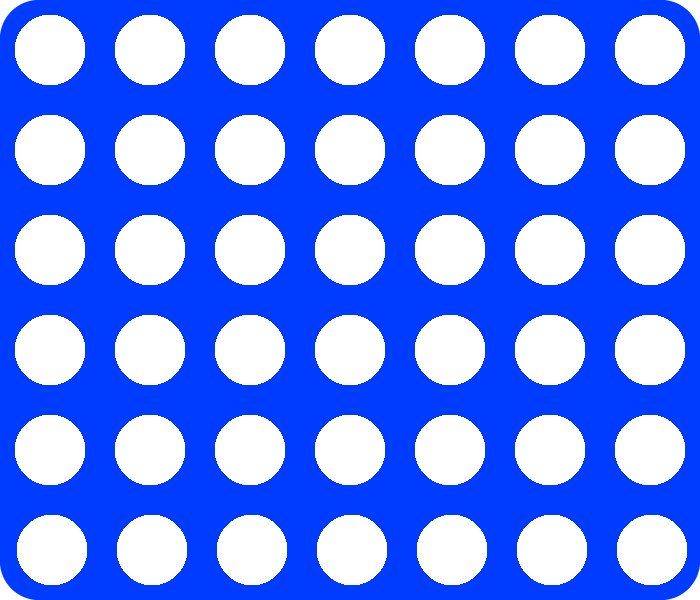
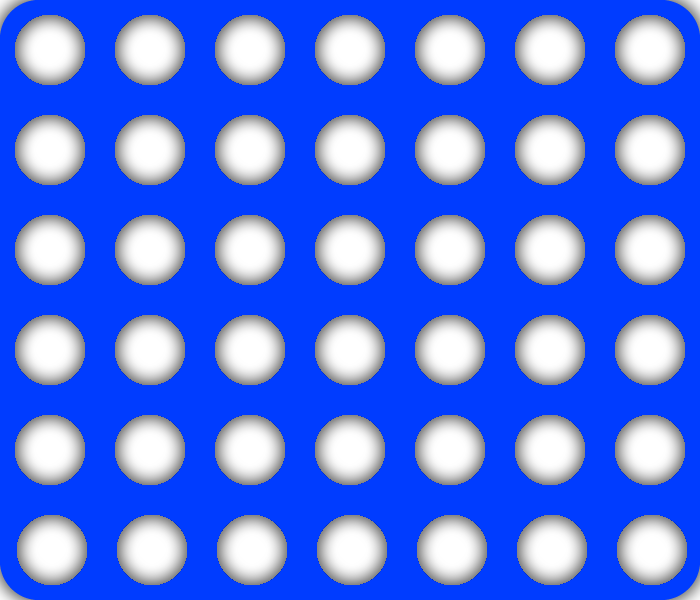
fixed rare bugs, added animations, gradients and different ending messages

diff --git a/public/index.html b/public/index.html
@@ -53,7 +53,8 @@
             var winColor;
             var width = 1920;
             var height = 1080;
-            var game;
+            var game = [];
+            var newDot;
             var color;
             var clientData;
             var camera = {x: 0, y: 0};
@@ -76,44 +77,86 @@
                 ctx.save();
                 ctx.translate(-camera.x + canvas.width / 2, -camera.y + canvas.height / 2);
 
-                if(game != null)
+                if(game.length !== 0)
                 {            
                     if(win)
                     {
                         ctx.restore();
-                        let winMessage;
                         
-                        if(game.color === winColor)
+                        if(winColor === "red" || winColor === "yellow")
                         {
-                            winMessage = "won";
+                            let winMessage;
+
+                            if(color === winColor)
+                            {
+                                winMessage = "won";
+                            }
+
+                            else
+                            {
+                                winMessage = "lost";
+                            }
+
+                            displayMessage("You have " + winMessage + ". Refresh to play with another user.");
                         }
 
                         else
                         {
-                            winMessage = "lost";
+                            displayMessage("Tie game. Refresh to play with another user.");
                         }
-                        displayMessage("You have " + winMessage + ". Refresh to play with another user.");
+                        
                         return;
                     }
 
                     else
                     {
-                        for(var n = 0; n < game.game.dots.length; n++)
+                        for(var n = 0; n < game.length; n++)
                         {
-                            let dot = game.game.dots[n];
+                            let dot = game[n].dot;
+                            dot.rowSpeed += dot.rowAcceleration;
+                            dot.rowPosition -= dot.rowSpeed;
+
+                            if(dot.rowPosition < dot.row)
+                            {
+                                dot.rowPosition = dot.row;
+                                dot.rowSpeed *= -0.3;
+                                dot.rowAcceleration *= 1.5;
+
+                                if(dot.rowSpeed < 0.001)
+                                {
+                                    dot.rowPosition = dot.row;
+                                    dot.rowSpeed = 0;
+                                    dot.rowAcceleration = 0;
+                                }
+
+                                if(dot.firstBounce)
+                                {
+                                    playSound(drop);
+                                }
+                                
+                                dot.firstBounce = false;
+                            }
+
+                            let x = 100 * (dot.column - 3);
+                            let y = 100 * ((5 - dot.rowPosition) - 2.5);
+                            console.log(x, y, dot.column, dot.rowPosition);
+                            let grd = ctx.createRadialGradient(x, y, 0, x, y, 40);
 
                             if(dot.color === "red")
                             {
-                                ctx.fillStyle = "#ff0000";
+                                grd.addColorStop(0, "#ff0000");
+                                grd.addColorStop(1, "#900000");
                             }
 
                             else if(dot.color === "yellow")
                             {
-                                ctx.fillStyle = "#ffff00";
+                                grd.addColorStop(0, "#ffff00");
+                                grd.addColorStop(1, "#909000");
                             }
 
+                            ctx.fillStyle = grd;
                             ctx.beginPath();
-                            ctx.arc(100 * (dot.column - 3), 100 * ((5 - dot.row) - 2.5), 40, 0, 2 * Math.PI);
+                            ctx.arc(x, y, 40, 0, 2 * Math.PI);
                             ctx.fill();
                         }
                     }
@@ -132,27 +175,27 @@
 
                 ctx.restore();
 
-                if(game != null)
+                if(game.length !== 0)
                 {
                     ctx.save();
                     ctx.translate(-camera.x * 0.5, -camera.y * 0.1);
 
-                    if(game.color === "red")
+                    if(color === "red")
                     {
                         ctx.fillStyle = "#ff0000";
                     }
 
-                    if(game.color === "yellow")
+                    if(color === "yellow")
                     {
                         ctx.fillStyle = "#ffff00";
                     }
 
-                    let messageIdentify = "You are " + game.color;
+                    let messageIdentify = "You are " + color;
                     ctx.font = "50px Arial";
                     ctx.fillText(messageIdentify, (canvas.width - ctx.measureText(messageIdentify).width) / 2, 50);
                     let messageTurn;
 
-                    if(game.game.turn === game.color)
+                    if(game[game.length -1].turn === color)
                     {
                         messageTurn = "It is your turn";
                     }
@@ -190,9 +233,14 @@
 
             socket.on("game", function(_data)
             {
-                game = _data;
+                newData = _data.main;
+                newData.dot.rowPosition = 6;
+                newData.dot.rowSpeed = 0;
+                newData.dot.rowAcceleration = 0.01;
+                newData.dot.firstBounce = true;
+                game.push(newData);
+                color = _data.color;
                 title.innerHTML = "Connect4 Online";
-                playSound(drop);
             });
 
             socket.on("found", function()
@@ -210,8 +258,12 @@
 
             socket.on("win", function(_data)
             {
-                win = true;
                 winColor = _data;
+
+                setTimeout(function()
+                {
+                    win = true;
+                }, 1000);
             });
 
             socket.on("hello", function(_clientData) {

diff --git a/index.js b/index.js
@@ -19,7 +19,8 @@ class Game
     // color is "red" or "yellow"
     // column is 0-6 int
     let dot = new Dot(color, column);
-    if(this.putDotInRow(dot) === false)
+    let result = this.putDotInRow(dot);
+    if(result === false)
     {
       return false;
     }
@@ -71,6 +72,16 @@ class Game
         }
       }
     }
+
+    if(this.dots.length === 6 * 7 && this.winner == null)
+    {
+      for(var p = 0; p < this.players.length; p++)
+      {
+        this.players[p].socket.emit("win", this.winner);
+      }
+    }
+
+    return dot;
   }
 
   putDotInRow(dot)
@@ -93,23 +104,7 @@ class Game
     }
 
     dot.row = newRow;
-  }
-
-  sendData()
-  {
-    for(var n = 0; n < this.players.length; n++)
-    {
-      this.players[n].socket.emit("game",
-      {
-        color: this.players[n].color,
-        game:
-        {
-          turn: this.turn,
-          dots: this.dots,
-          dotColumns: this.dotColumns
-        }
-      });
-    }
+    return newRow;
   }
 }
 
@@ -263,7 +258,9 @@ io.on("connection", function(socket)
 
     if(game.turn === client.color)
     {
-      if(game.addDot(client.color, column) !== false)
+      let result = game.addDot(client.color, column);
+
+      if(result !== false)
       {
         if(game.turn === "red")
         {
@@ -275,7 +272,18 @@ io.on("connection", function(socket)
           game.turn = "red";
         }
   
-        game.sendData();
+        for(var n = 0; n < game.players.length; n++)
+        {
+          game.players[n].socket.emit("game",
+          {
+            color: game.players[n].color,
+            main:
+            {
+              turn: game.turn,
+              dot: result
+            }
+          });
+        }
       }
     }
   });
